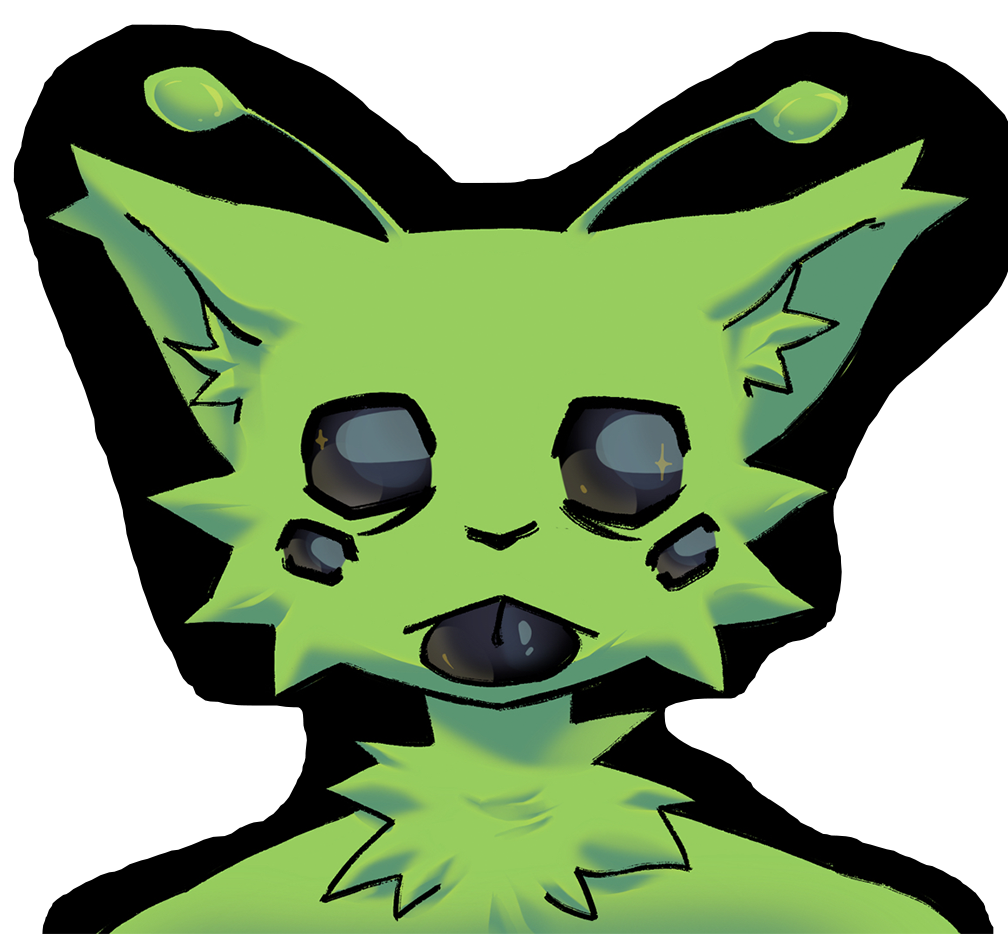
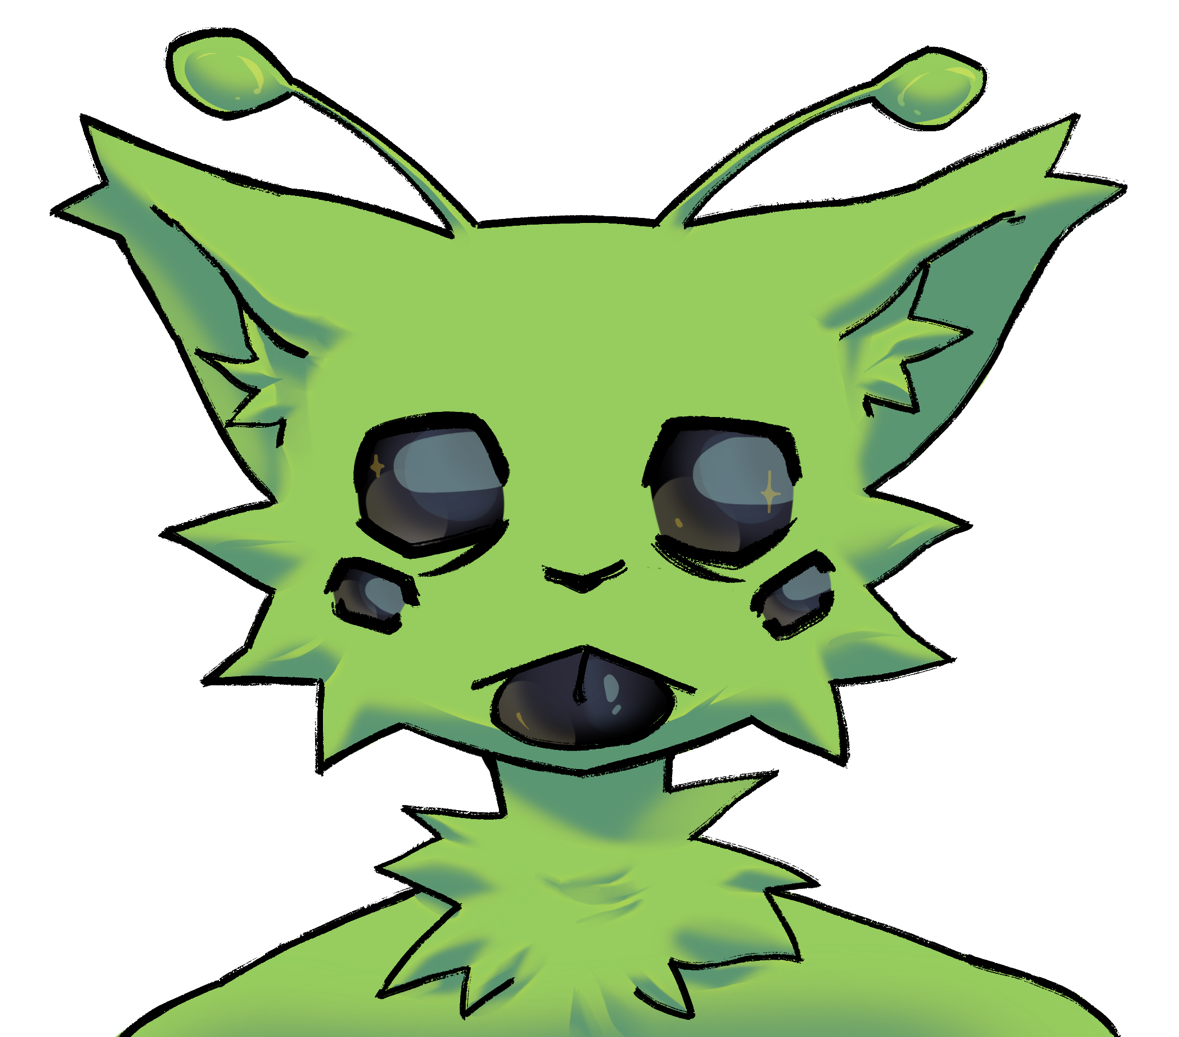
pre-final commit

diff --git a/styles.css b/styles.css
@@ -369,7 +369,7 @@ p {
     overflow-y: auto;
     /* allow vertical scroll */
     overflow-x: hidden;
-
+transform: translate(0%, 0%);
     /* prevent sideways scroll */
 }
 
@@ -465,13 +465,23 @@ a {
 }
 
 .imgcontainerabt img {
-    width: 80%;
+    width: 70%;
     height: auto;
     /* Maintain aspect ratio */
     border: 0px solid rgb(188, 255, 55);
     object-fit: contain;
     /* Optional: prevents distortion */
-    transform: translate(10%,2.5%);
+    transform: translate(30%, 2.5%);
+}
+
+.imgcontainercont img {
+    width: 70%;
+    height: auto;
+    /* Maintain aspect ratio */
+    border: 0px solid rgb(188, 255, 55);
+    object-fit: contain;
+    /* Optional: prevents distortion */
+    transform: translate(30%, 11.7%);
 }
 
 .imgcontainerother {

diff --git a/other.html b/other.html
@@ -24,9 +24,9 @@
             </div>
             <button class="tog">Touch me!</button>
             <div class="imgcontainerother">
-                <img src="pics/flugtower.png">
-                <img src="pics/zeepme.png">
                 <img src="pics/zeepbleh.png">
+                <img src="pics/zeepme.png">
+                    <img src="pics/flugtower.png">
             </div>
         </div>
         <footer>
